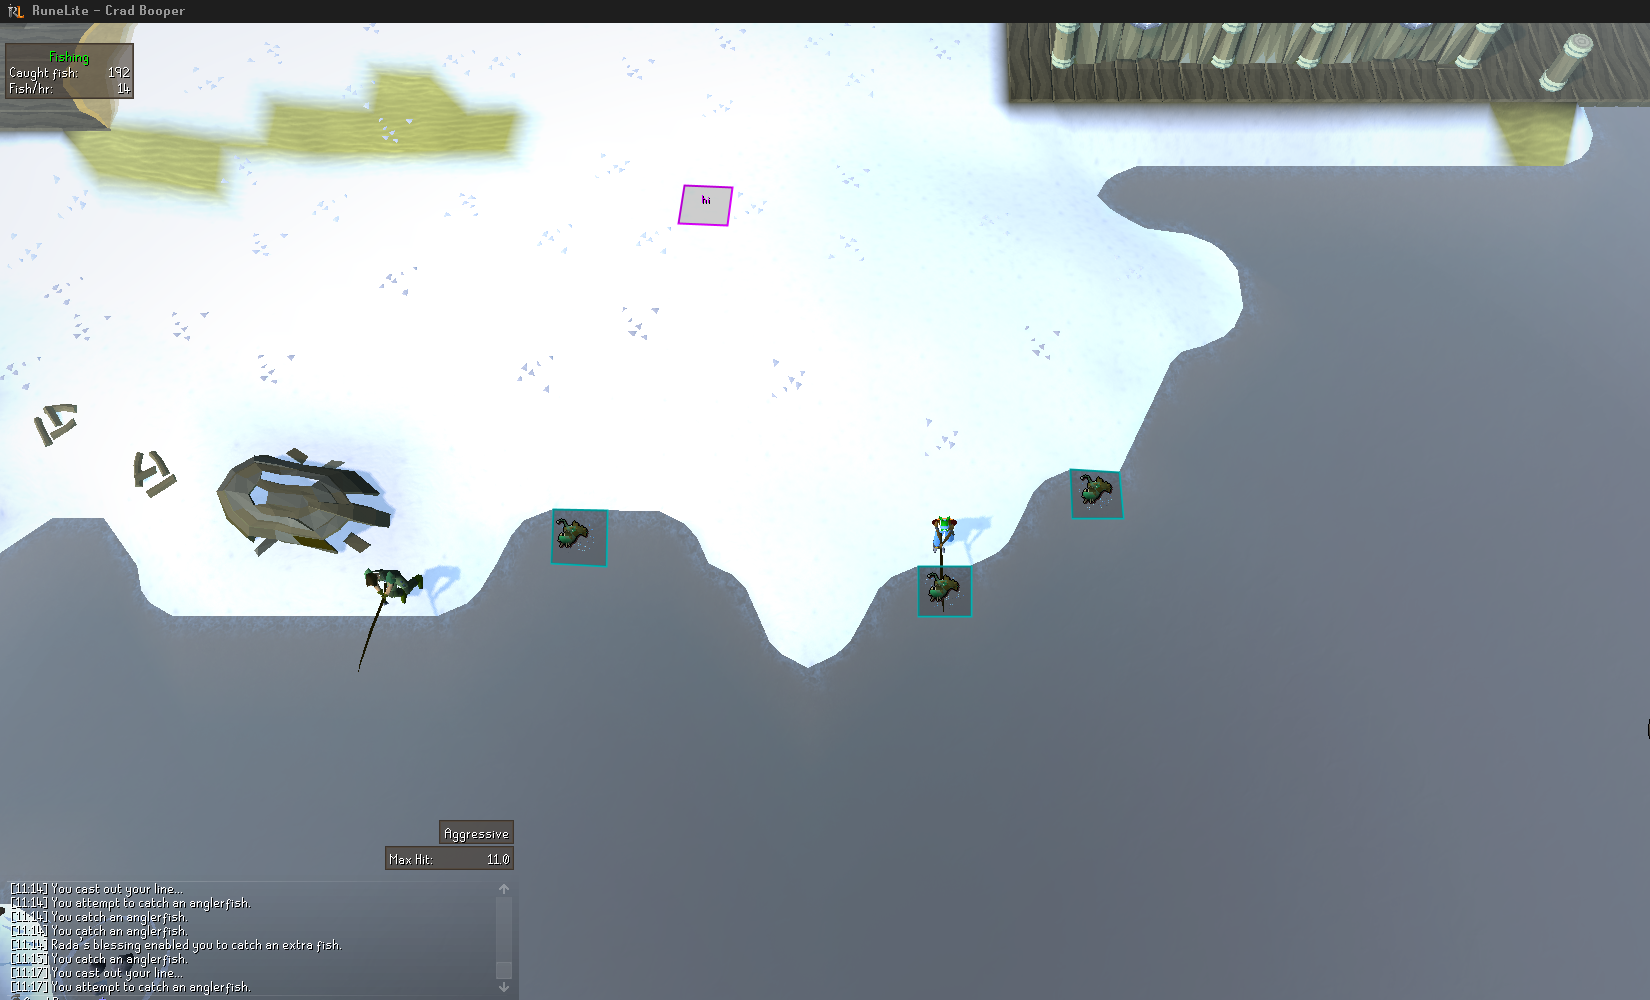
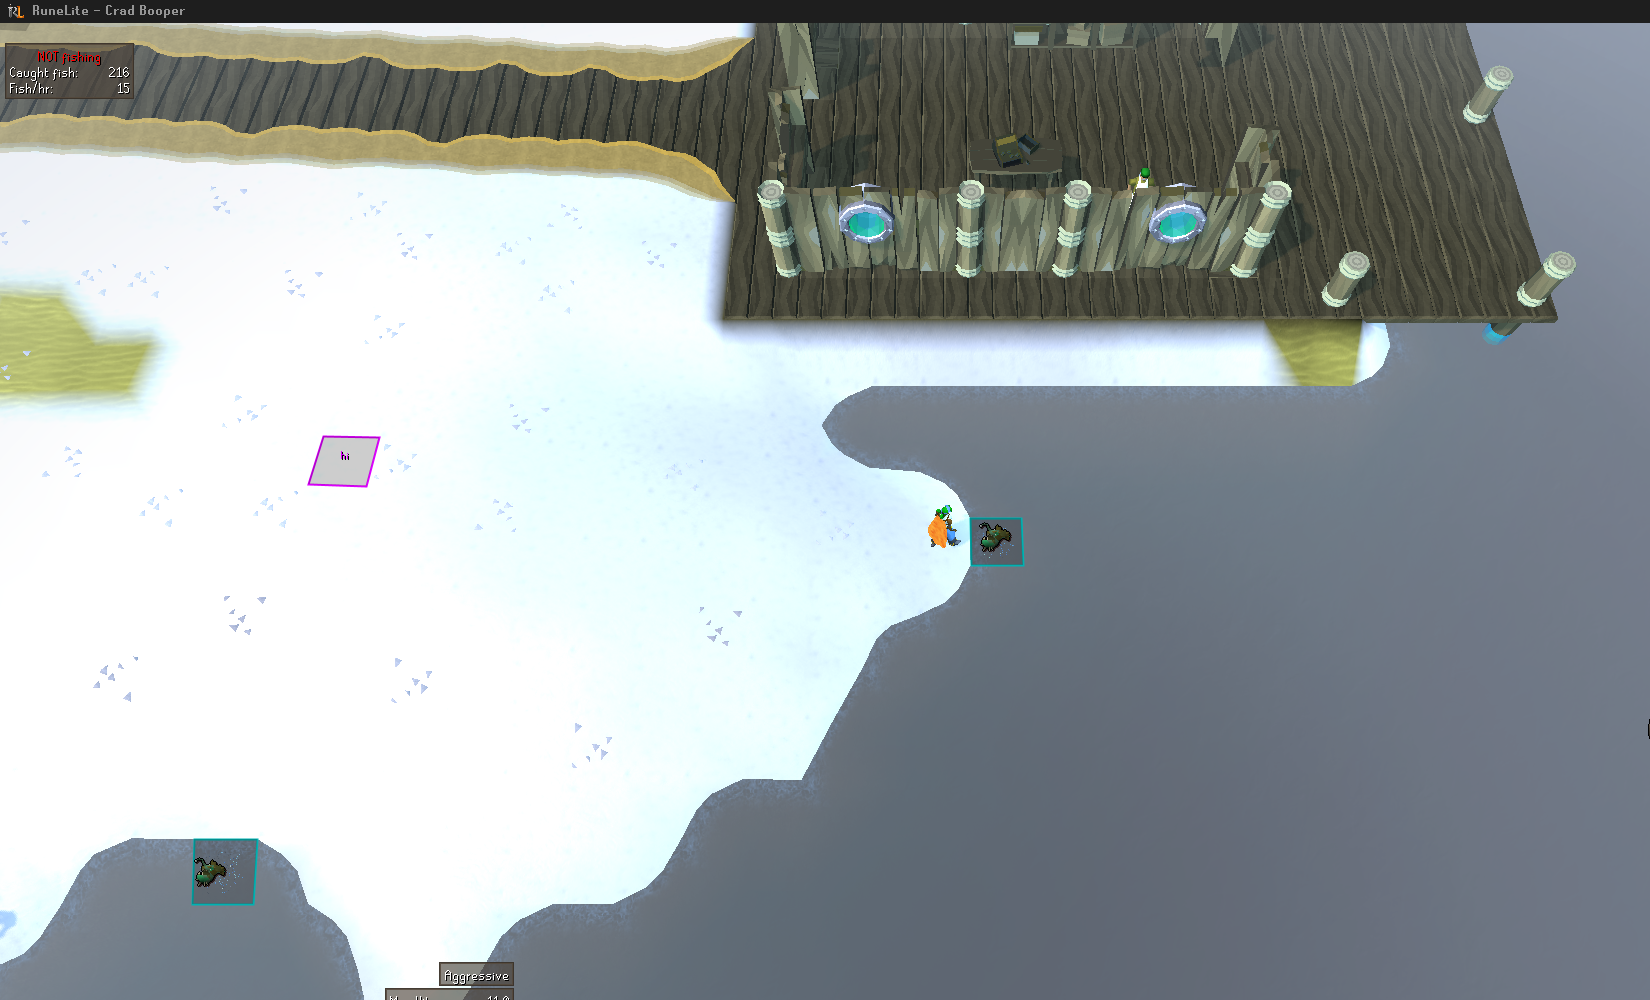
created function to calculate shortest distance

diff --git a/scripts/anglerfish/anglerfish.py b/scripts/anglerfish/anglerfish.py
@@ -70,11 +70,13 @@ def find_click_spots(rectangles):
 def calculate_distance(click_points):
     global character_location
     distances = []
-    closest = 0
     for (x, y) in click_points:
         total_distance = abs(x - character_location[0]) + abs(y - character_location[1])
         distances.append(total_distance)
-    return distances
+    min_index = np.argmin(np.array(distances))
+    # print(min_index)
+    closest_point = click_points[min_index]
+    return closest_point
 
 
 results = find_spots(.50)
@@ -84,3 +86,4 @@ results = find_click_spots(results)
 # draw_markers('fish_spots.png', results)
 print(results)
 print(calculate_distance(results))
+pag.moveTo(calculate_distance(results))
